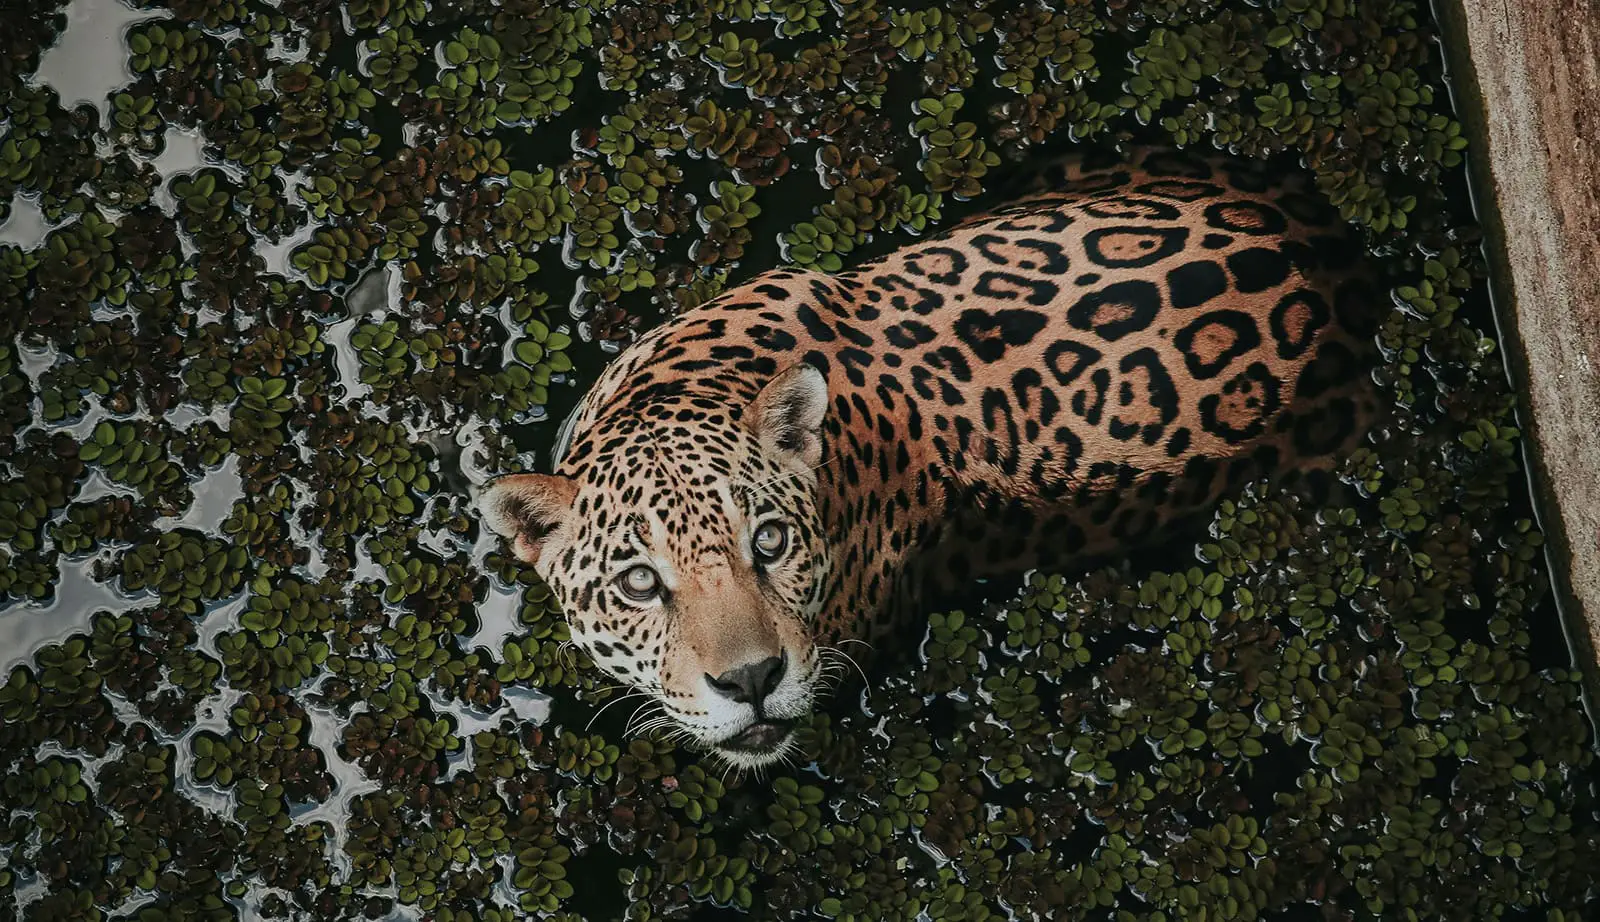
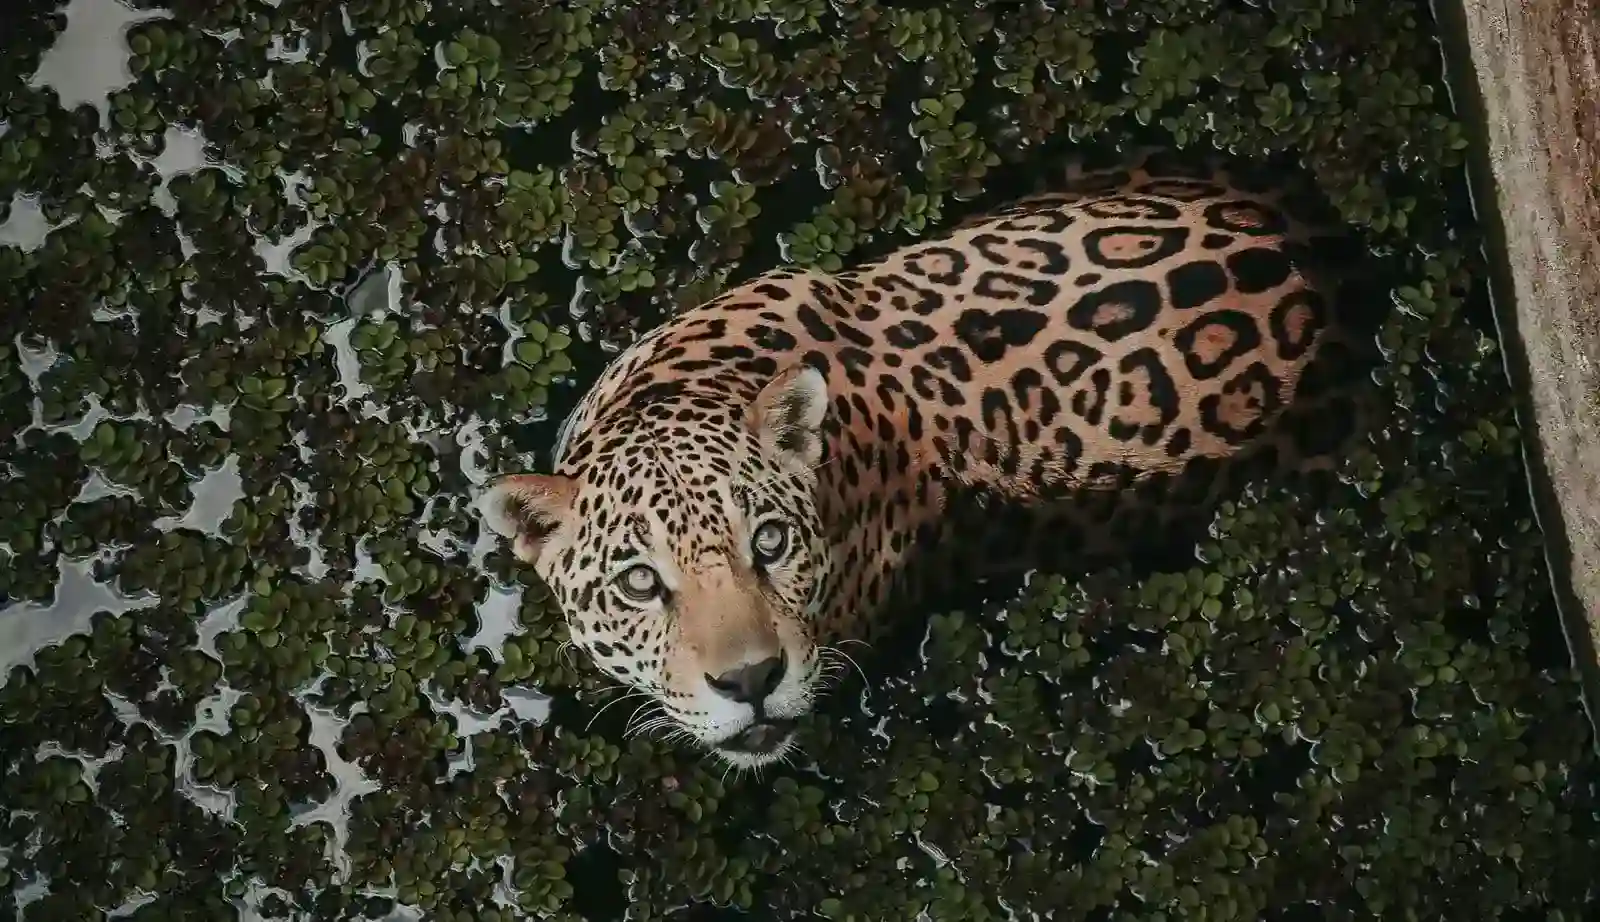
Fix, image, title, font

diff --git a/place.html b/place.html
@@ -4,9 +4,13 @@
 <head>
     <meta charset="utf-8">
     <meta name="viewport" content="width=device-width, initial-scale=1">
-    <title>Mexico</title>
+    <title>Mexico — Country Profile: Weather & Key Data</title>
     <meta name="description" content="Weather information for Tuxtla Gutiérrez, Chiapas, Mexico.">
     <meta name="author" content="David Burguete">
+    <!-- Google Fonts -->
+    <link rel="preconnect" href="https://fonts.googleapis.com">
+    <link rel="preconnect" href="https://fonts.gstatic.com" crossorigin>
+    <link href="https://fonts.googleapis.com/css2?family=Roboto:ital@0;1&display=swap" rel="stylesheet">
     <!-- CSS -->
     <link rel="stylesheet" href="styles/place.css">
     <!-- JavaScript -->
